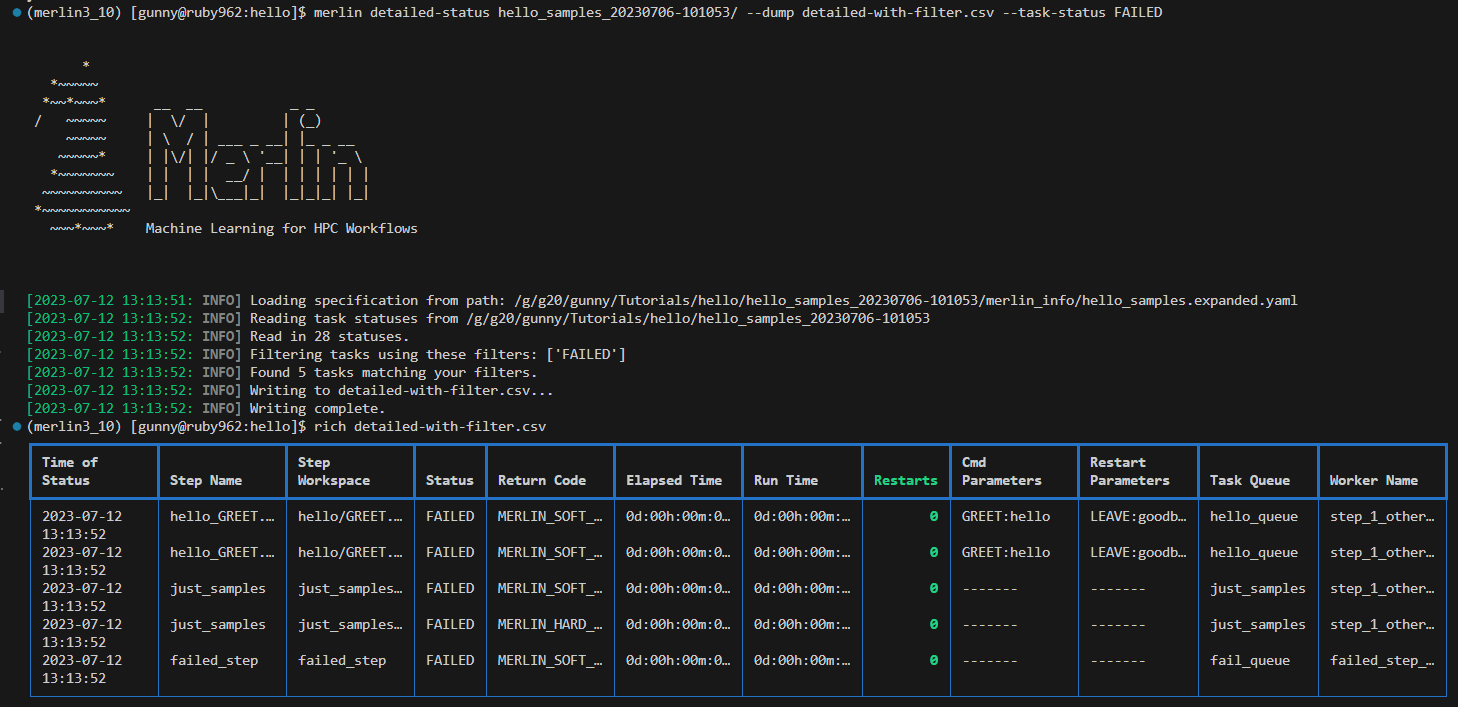
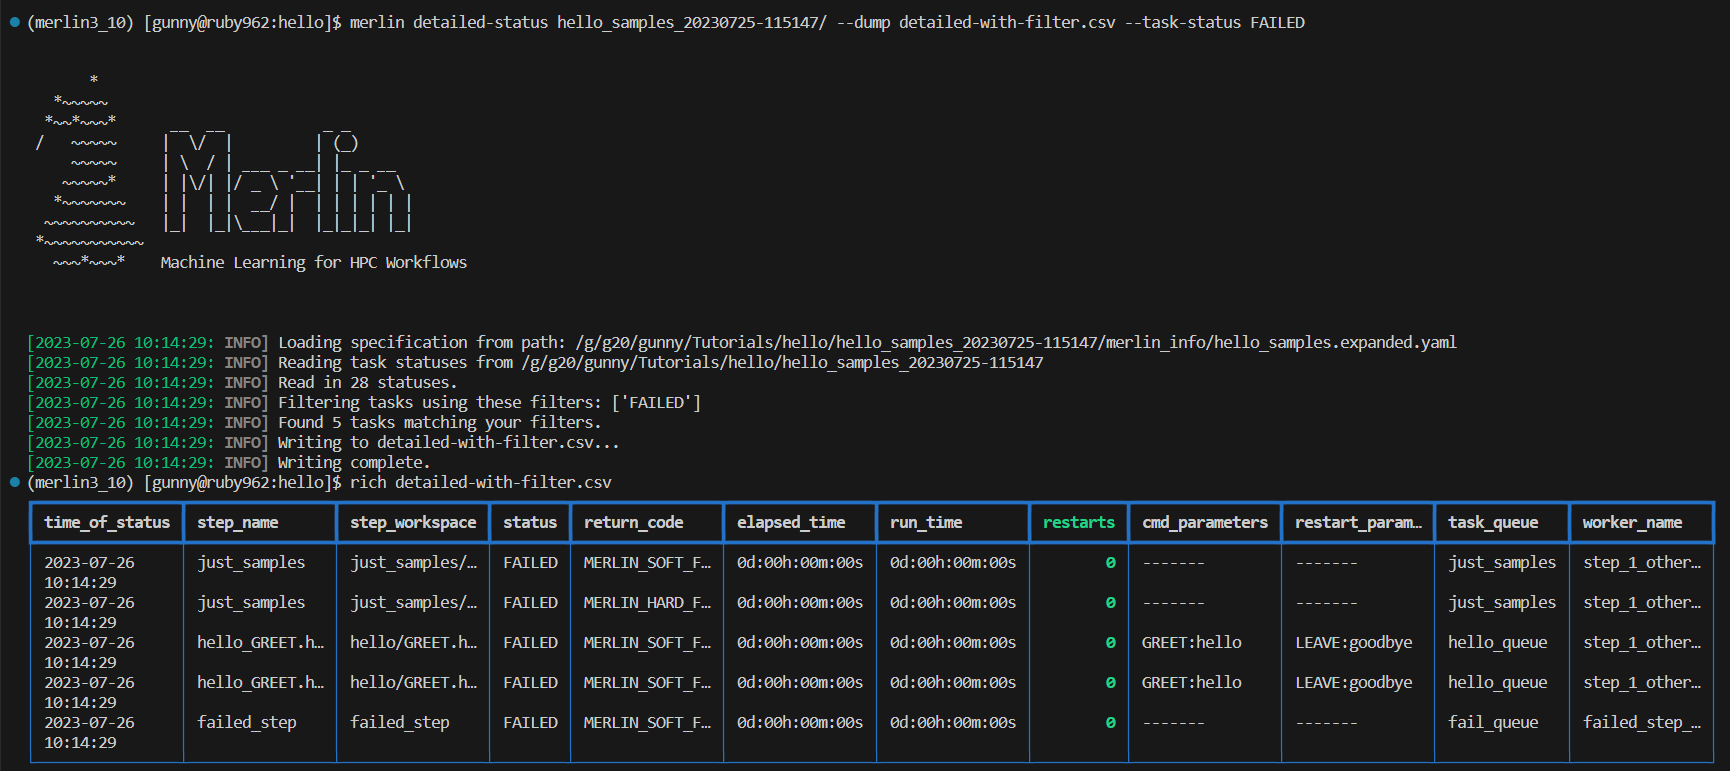
update docs to accommodate new status.json file renaming changes

Changed region(s): [[0.0, 0.4045, 1.0, 0.9958], [0.0, 0.0, 0.8025, 0.0622], [0.0309, 0.0934, 0.2778, 0.3734]]

diff --git a/merlin/study/status_renderers.py b/merlin/study/status_renderers.py
@@ -36,6 +36,18 @@ from rich.table import Table
 from rich.theme import Theme
 
 
+def format_label(label_to_format: str, delimiter: str = "_") -> str:
+    """
+    Take a string of the format 'word1_word2_...' and format it so it's prettier.
+    This would turn the string above to 'Word1 Word2 ...'.
+
+    :param `label_to_format`: The string we want to format
+    :param `delimiter`: The character separating words in `label_to_format`
+    :returns: A formatted string based on `label_to_format`
+    """
+    return label_to_format.replace(delimiter, " ").title()
+
+
 class MerlinDefaultRenderer(BaseStatusRenderer):
     """
     This class handles the default status formatting for task-by-task display.
@@ -78,12 +90,7 @@ class MerlinDefaultRenderer(BaseStatusRenderer):
 
             num_param_rows = int(len(param_list) / 2)
 
-            title = ""
-            if param_type == "cmd_parameters":
-                title = "Cmd Parameters"
-            elif param_type == "restart_parameters":
-                title = "Restart Parameters"
-            step_params = Table(title=title, show_header=False, show_lines=True, box=box.HORIZONTALS)
+            step_params = Table(title=format_label(param_type), show_header=False, show_lines=True, box=box.HORIZONTALS)
 
             # Note col names don't actually matter, just setting styles
             style = "blue" if not self.disable_theme else ""
@@ -150,7 +157,7 @@ class MerlinDefaultRenderer(BaseStatusRenderer):
                 else:
                     col_style = "col_style_2"
 
-            task_details.add_column(col, style=col_style, overflow="fold")
+            task_details.add_column(format_label(col), style=col_style, overflow="fold")
 
         return task_details
 
@@ -269,6 +276,11 @@ class MerlinFlatRenderer(FlatStatusRenderer):
             del status_data["cmd_parameters"]
         if "restart_parameters" in status_data:
             del status_data["restart_parameters"]
+
+        # Capitalize column labels
+        capitalized_keys = [format_label(key) for key in status_data]
+        status_data = dict(zip(capitalized_keys, list(status_data.values())))
+
         super().layout(status_data, study_title=study_title, filter_dict=filter_dict)
 
     def render(self, theme=None):

diff --git a/tests/unit/study/status_test_files/shared_tests.py b/tests/unit/study/status_test_files/shared_tests.py
@@ -234,14 +234,14 @@ def run_csv_dump_test(status_obj: Union[Status, DetailedStatus], expected_output
         with open(status_obj.args.dump, "r") as csv_df:
             csv_dump_data = csv.DictReader(csv_df)
             # Make sure a timestamp field was created
-            assert "Time of Status" in csv_dump_data.fieldnames
+            assert "time_of_status" in csv_dump_data.fieldnames
 
             # Format the csv data that we just read in and create a set of timestamps
             csv_dump_output = _format_csv_data(csv_dump_data)
-            timestamps = set(csv_dump_output["Time of Status"])
+            timestamps = set(csv_dump_output["time_of_status"])
 
             # We don't care if the timestamp matches, we only care that there should be exactly one timestamp here
-            del csv_dump_output["Time of Status"]
+            del csv_dump_output["time_of_status"]
             assert len(timestamps) == 1
 
             # Check for differences (should be none)
@@ -257,14 +257,14 @@ def run_csv_dump_test(status_obj: Union[Status, DetailedStatus], expected_output
         with open(status_obj.args.dump, "r") as csv_df:
             csv_append_dump_data = csv.DictReader(csv_df)
             # Make sure a timestamp field still exists
-            assert "Time of Status" in csv_append_dump_data.fieldnames
+            assert "time_of_status" in csv_append_dump_data.fieldnames
 
             # Format the csv data that we just read in and create a set of timestamps
             csv_append_dump_output = _format_csv_data(csv_append_dump_data)
-            timestamps = set(csv_append_dump_output["Time of Status"])
+            timestamps = set(csv_append_dump_output["time_of_status"])
 
             # We don't care if the timestamp matches, we only care that there should be exactly two timestamps here now
-            del csv_append_dump_output["Time of Status"]
+            del csv_append_dump_output["time_of_status"]
             assert len(timestamps) == 2
 
             # Since there are two dumps, we need to double up the formatted statuses too

diff --git a/tests/unit/study/test_status.py b/tests/unit/study/test_status.py
@@ -156,7 +156,7 @@ class TestMerlinStatus(unittest.TestCase):
         status_obj = Status(args=self.args, spec_display=False, file_or_ws=status_test_variables.VALID_WORKSPACE_PATH)
 
         # Test csv formatter
-        correct_csv_format = {"Time of Status": [date] * len(status_test_variables.ALL_FORMATTED_STATUSES["step_name"])}
+        correct_csv_format = {"time_of_status": [date] * len(status_test_variables.ALL_FORMATTED_STATUSES["step_name"])}
         correct_csv_format.update(status_test_variables.ALL_FORMATTED_STATUSES)
         csv_format_diff = DeepDiff(status_obj.format_csv_dump(date), correct_csv_format)
         self.assertEqual(csv_format_diff, {})

diff --git a/merlin/study/status.py b/merlin/study/status.py
@@ -386,7 +386,7 @@ class Status:
         statuses_to_write = self.format_status_for_display()
 
         # Add date entries as the first column then update this dict with the statuses we just reformatted
-        statuses_with_timestamp = {"Time of Status": [date] * len(statuses_to_write["step_name"])}
+        statuses_with_timestamp = {"time_of_status": [date] * len(statuses_to_write["step_name"])}
         statuses_with_timestamp.update(statuses_to_write)
 
         return statuses_with_timestamp

diff --git a/docs/source/merlin_monitoring.rst b/docs/source/merlin_monitoring.rst
@@ -35,30 +35,40 @@ The format of a MERLIN_STATUS.json file is as follows:
 .. code-block:: json
 
     {
-        "Step Name": {
-            "Cmd Parameters": "TOKEN1:value1;TOKEN2:value2;...",
-            "Restart Parameters": "TOKEN1:value1;TOKEN2:value2;...",
-            "Task Queue": "name_of_queue",
-            "Worker Name": "name_of_worker",
-            "sub_workspace": {
-                "Status": "<One of the 7 possible statuses>",
-                "Return Code": "<One of the 8 possible return codes>",
-                "Elapsed Time": "xd:xxh:xxm:xxs",
-                "Run Time": "xd:xxh:xxm:xxs",
-                "Restarts": 0
+        "step_name": {
+            "parameters": {
+                "cmd": {
+                    "TOKEN1": "value1",
+                    "TOKEN2": "value2",
+                    "etc": "etc"
+                },
+                "restart": {
+                    "TOKEN1": "value1",
+                    "TOKEN2": "value2",
+                    "etc": "etc"
+                }
+            },
+            "task_queue": "name_of_queue",
+            "worker_name": "name_of_worker",
+            "step_workspace": {
+                "status": "<One of the 7 possible statuses>",
+                "return_code": "<One of the 8 possible return codes>",
+                "elapsed_time": "xd:xxh:xxm:xxs",
+                "run_time": "xd:xxh:xxm:xxs",
+                "restarts": 0
             }
         }
     }
 
-Here, the "Cmd Parameters" are parameters used in the cmd section of a step and "Restart Parameters" are parameters used in the restart
-section of a step. Both of these values may be null. Additionally, if you run your study :ref:`locally<merlin-run>` there will not be any
-entries for "Task Queue" and "Worker Name".
+In the parameters section here, the cmd parameters are parameters used in the "cmd" section of a step and the restart parameters are parameters
+used in the "restart" section of a step. Both of these values may be null. Additionally, if you run your study :ref:`locally<merlin-run>` there will
+not be any entries for "task_queue" and "worker_name".
 
-If your step uses samples, a "sub_workspace" entry for each sample will be created. In other words, you will have multiple "sub_workspace"
-entries of the form "sub_workspace/00", "sub_workspace/01", "sub_workspace/02", etc.
+If your step uses samples, a "step_workspace" entry for each sample will be created. In other words, you will have multiple "step_workspace"
+entries of the form "step_workspace/00", "step_workspace/01", "step_workspace/02", etc.
 
-The ``merlin status`` and ``merlin detailed-status`` will read from these MERLIN_STATUS.json files and format the output in an easy-to-analyze
-manner.
+The ``merlin status`` and ``merlin detailed-status`` commands will read from these MERLIN_STATUS.json files and format the output in an
+easy-to-analyze manner.
 
 Possible Statuses
 +++++++++++++++++
@@ -149,7 +159,7 @@ See :ref:`Step return variables` for more information about return codes.
 Inputs
 ++++++
 
-Both the ``merlin status`` and the ``merlin detailed-status`` command can take either a yaml spec file or an output study directory as input.
+Both the ``merlin status`` and the ``merlin detailed-status`` commands can take either a yaml spec file or an output study directory as input.
 For example, ``hello_world.yaml`` and ``hello_world_20230503-105137/`` are both valid inputs so long as the file or output directory exists.
 
 Status Usage:
@@ -510,7 +520,7 @@ Example JSON dump:
 When dumping to a file that DOES NOT yet exist, Merlin will create that file for you and populate it with the requested status info.
 
 When dumping to a file that DOES exist, Merlin will append the requested status information to that file. You can differentiate between separate
-dump calls by looking at the timestamps of the dumps. For CSV files this timestamp exists in the "Time of Status" column (see
+dump calls by looking at the timestamps of the dumps. For CSV files this timestamp exists in the "time_of_status" column (see
 :ref:`Status CSV Dump Format` below) and for JSON files this timestamp will be the top level key to the status entry (see
 :ref:`Status JSON Dump Format` below).
 
@@ -527,7 +537,7 @@ The format of a CSV dump file for statuses is as follows:
 
 .. code-block::
 
-  Time of Status,Step Name,Step Workspace,Status,Return Code,Elapsed Time,Run Time,Restarts,Cmd Parameters,Restart Parameters,Task Queue,Worker Name
+  time_of_status,step_name,step_workspace,status,return_code,elapsed_time,run_time,restarts,cmd_parameters,restart_parameters,task_queue,worker_name
 
 The image below shows an example of dumping the status info of tasks with FAILED task statuses to a csv file, and then displaying that csv file using
 the `rich-cli library <https://github.com/Textualize/rich-cli>`_:
@@ -547,17 +557,27 @@ The only difference is that each entry begins with a date:
 
   { 
     "YYYY-MM-DD HH:MM:SS": {
-      "Step Name": {
-        "Cmd Parameters": "TOKEN1:value1;TOKEN2:value2;...",
-        "Restart Parameters": "TOKEN1:value1;TOKEN2:value2;...",
-        "Task Queue": "name_of_queue",
-        "Worker Name": "name_of_worker",
-        "sub_workspace": {
-            "Status": "<One of the 7 possible statuses>",
-            "Return Code": "<One of the 8 possible return codes>",
-            "Elapsed Time": "xd:xxh:xxm:xxs",
-            "Run Time": "xd:xxh:xxm:xxs",
-            "Restarts": 0
+      "step_name": {
+        "parameters": {
+            "cmd": {
+                "TOKEN1": "value1",
+                "TOKEN2": "value2",
+                "etc": "etc"
+            },
+            "restart": {
+                "TOKEN1": "value1",
+                "TOKEN2": "value2",
+                "etc": "etc"
+            }
+        },
+        "task_queue": "name_of_queue",
+        "worker_name": "name_of_worker",
+        "step_workspace": {
+            "status": "<One of the 7 possible statuses>",
+            "return_code": "<One of the 8 possible return codes>",
+            "elapsed_time": "xd:xxh:xxm:xxs",
+            "run_time": "xd:xxh:xxm:xxs",
+            "restarts": 0
         }
       }
     }
